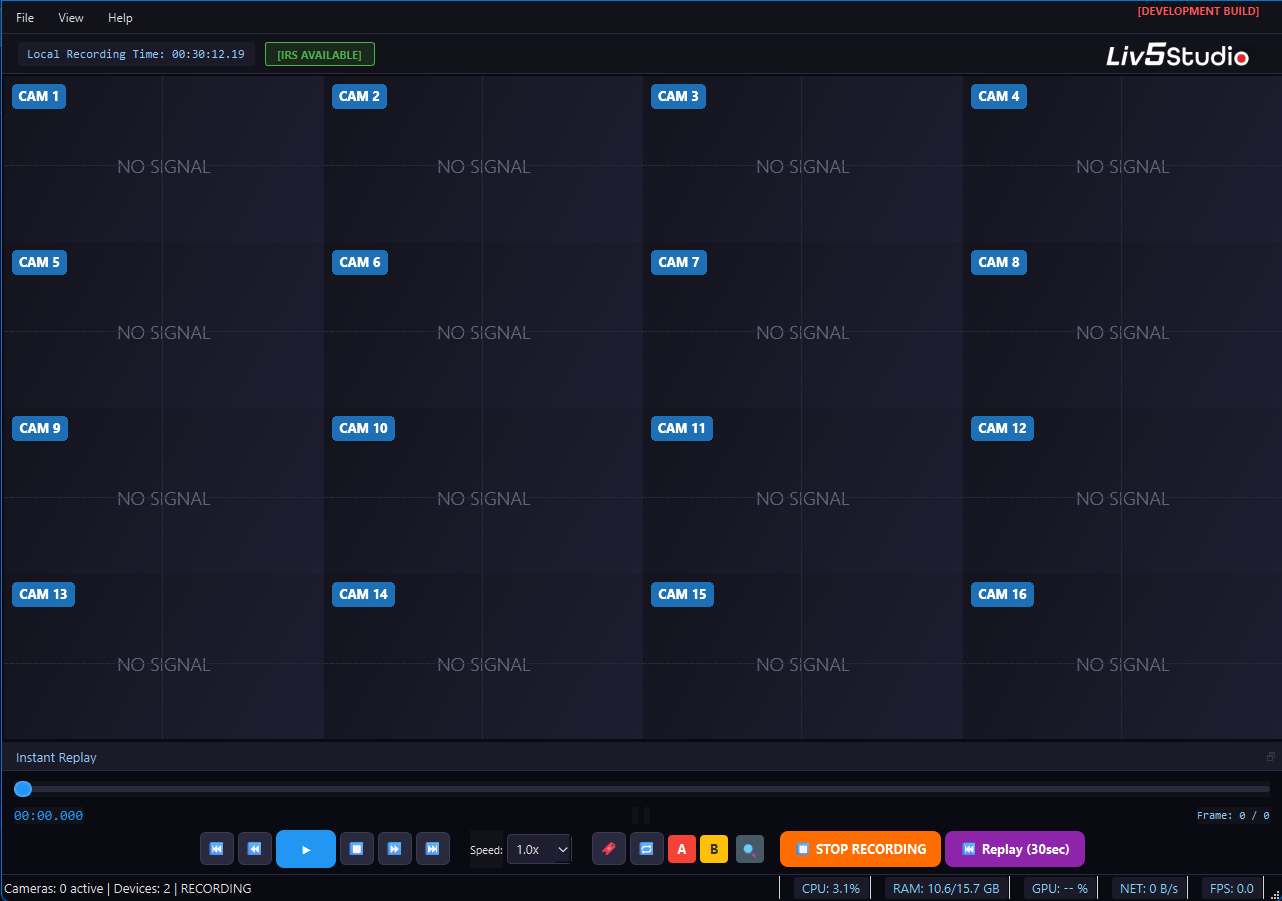
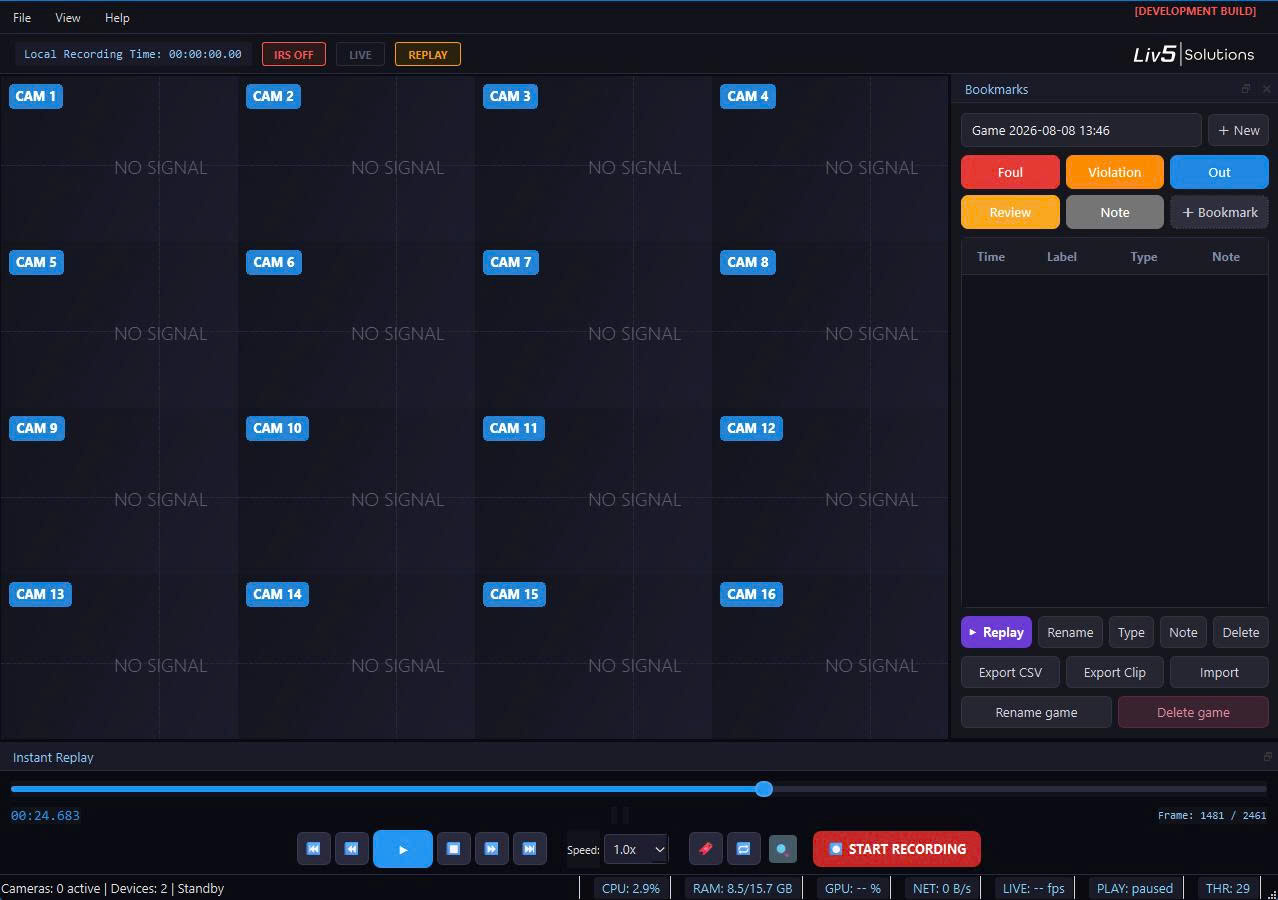
cập nhật page tính năng

diff --git a/tinh-nang.html b/tinh-nang.html
@@ -43,23 +43,19 @@
       <div class="feat reverse">
         <div class="feat-text">
           <div class="feat-num">02</div>
-          <h3 class="feat-title" data-vi="Phát lại tức thì, không gián đoạn trận đấu" data-en="Instant replay, without interrupting the game">Phát lại tức thì, không gián đoạn trận đấu</h3>
-          <p class="feat-desc" data-vi="Hệ thống tiếp tục ghi hình liên tục ở nền trong khi trận đấu vẫn diễn ra, giúp trọng tài tua chậm, xem từng khung hình (frame-by-frame) và đánh dấu tình huống quan trọng để truy xuất nhanh." data-en="The system keeps recording continuously in the background while the game is in progress, letting referees slow down, step through frame-by-frame, and bookmark key moments for quick retrieval.">Hệ thống tiếp tục ghi hình liên tục ở nền trong khi trận đấu vẫn diễn ra, giúp trọng tài tua chậm, xem từng khung hình (frame-by-frame) và đánh dấu tình huống quan trọng để truy xuất nhanh.</p>
+          <h3 class="feat-title" data-vi="Đánh dấu tình huống, phát lại tức thì" data-en="Bookmark plays, replay instantly">Đánh dấu tình huống, phát lại tức thì</h3>
+          <p class="feat-desc" data-vi="Hệ thống tiếp tục ghi hình liên tục ở nền trong khi trận đấu vẫn diễn ra. Trọng tài đánh dấu Foul, Violation, Out, Review chỉ với một cú chạm, sau đó tua chậm, xem từng khung hình (frame-by-frame) để truy xuất nhanh." data-en="The system keeps recording continuously in the background while the game is in progress. Referees tag Fouls, Violations, Outs, and Reviews with a single tap, then slow down and step through frame-by-frame for quick retrieval.">Hệ thống tiếp tục ghi hình liên tục ở nền trong khi trận đấu vẫn diễn ra. Trọng tài đánh dấu Foul, Violation, Out, Review chỉ với một cú chạm, sau đó tua chậm, xem từng khung hình (frame-by-frame) để truy xuất nhanh.</p>
           <ul class="feat-list">
-            <li><svg viewBox="0 0 24 24" fill="none" stroke="currentColor" stroke-width="2.4"><polyline points="20 6 9 17 4 12"/></svg><span data-vi="Tua chậm, xem từng khung hình và phóng to chi tiết" data-en="Slow-motion, frame-by-frame playback and zoom">Tua chậm, xem từng khung hình và phóng to chi tiết</span></li>
-            <li><svg viewBox="0 0 24 24" fill="none" stroke="currentColor" stroke-width="2.4"><polyline points="20 6 9 17 4 12"/></svg><span data-vi="Đánh dấu (bookmark) và xuất clip phát lại để lưu trữ" data-en="Bookmark and export replay clips for record-keeping">Đánh dấu (bookmark) và xuất clip phát lại để lưu trữ</span></li>
+            <li><svg viewBox="0 0 24 24" fill="none" stroke="currentColor" stroke-width="2.4"><polyline points="20 6 9 17 4 12"/></svg><span data-vi="Bookmark theo loại tình huống: Foul, Violation, Out, Review" data-en="Bookmark by play type: Foul, Violation, Out, Review">Bookmark theo loại tình huống: Foul, Violation, Out, Review</span></li>
+            <li><svg viewBox="0 0 24 24" fill="none" stroke="currentColor" stroke-width="2.4"><polyline points="20 6 9 17 4 12"/></svg><span data-vi="Tua chậm, xem từng khung hình và xuất clip để lưu trữ" data-en="Slow-motion, frame-by-frame playback and clip export">Tua chậm, xem từng khung hình và xuất clip để lưu trữ</span></li>
           </ul>
         </div>
-        <div class="feat-visual">
-          <div class="ph">
-            <div class="ph-badge">INSTANT REPLAY · 30s</div>
-            <div class="ph-inner">
-              <div class="ph-icon">
-                <svg viewBox="0 0 24 24" fill="none" stroke="currentColor" stroke-width="1.6"><circle cx="12" cy="12" r="9"/><path d="M12 7v6l4 2"/></svg>
-              </div>
-              <div class="ph-label" data-vi="Hình ảnh minh họa tính năng" data-en="Feature illustration">Hình ảnh minh họa tính năng</div>
-              <div class="ph-sub">700 × 525</div>
-            </div>
+        <div class="feat-visual feat-visual-split">
+          <div class="ph ph-filled ph-contain ph-tall">
+            <img src="assets/bookmarks-panel.png" alt="Bảng Bookmarks Liv5-IRS — đánh dấu Foul, Violation, Out, Review theo mốc thời gian" class="ph-img">
+          </div>
+          <div class="ph ph-filled ph-contain" style="aspect-ratio:1281/101">
+            <img src="assets/replay-controls-bar.png" alt="Thanh điều khiển Instant Replay Liv5-IRS — tua khung hình, tốc độ phát lại, ghi hình" class="ph-img">
           </div>
         </div>
       </div>
@@ -67,23 +63,17 @@
       <div class="feat">
         <div class="feat-text">
           <div class="feat-num">03</div>
-          <h3 class="feat-title" data-vi="Giao diện tối giản, dành riêng cho trọng tài" data-en="A minimal interface, built for referees">Giao diện tối giản, dành riêng cho trọng tài</h3>
-          <p class="feat-desc" data-vi="Bảng điều khiển được thiết kế theo đúng quy trình làm việc của trọng tài, không phải cho sản xuất chương trình truyền hình — giúp thao tác nhanh và giảm áp lực khi xử lý tình huống trong trận đấu." data-en="The control panel is designed around a referee's actual workflow, not broadcast production — enabling fast operation and reducing pressure when handling in-game situations.">Bảng điều khiển được thiết kế theo đúng quy trình làm việc của trọng tài, không phải cho sản xuất chương trình truyền hình — giúp thao tác nhanh và giảm áp lực khi xử lý tình huống trong trận đấu.</p>
+          <h3 class="feat-title" data-vi="Thiết lập nguồn camera linh hoạt" data-en="Flexible camera source setup">Thiết lập nguồn camera linh hoạt</h3>
+          <p class="feat-desc" data-vi="Quản lý và ánh xạ nhiều nguồn camera vào từng cổng nhập với độ phân giải tùy chỉnh, xem trước hình ảnh trực tiếp ngay trong lúc thiết lập — giúp đội kỹ thuật lắp đặt nhanh trước mỗi trận đấu." data-en="Manage and map multiple camera sources to input ports with custom resolutions, with a live preview right in the setup screen — helping the technical team set up quickly before each game.">Quản lý và ánh xạ nhiều nguồn camera vào từng cổng nhập với độ phân giải tùy chỉnh, xem trước hình ảnh trực tiếp ngay trong lúc thiết lập — giúp đội kỹ thuật lắp đặt nhanh trước mỗi trận đấu.</p>
           <ul class="feat-list">
-            <li><svg viewBox="0 0 24 24" fill="none" stroke="currentColor" stroke-width="2.4"><polyline points="20 6 9 17 4 12"/></svg><span data-vi="Trọng tài làm quen hệ thống chỉ sau khoảng 5 phút hướng dẫn" data-en="Referees get comfortable with the system after about 5 minutes of guidance">Trọng tài làm quen hệ thống chỉ sau khoảng 5 phút hướng dẫn</span></li>
-            <li><svg viewBox="0 0 24 24" fill="none" stroke="currentColor" stroke-width="2.4"><polyline points="20 6 9 17 4 12"/></svg><span data-vi="Vận hành ổn định trên nhiều cấu hình máy tính khác nhau" data-en="Runs reliably across a wide range of computer setups">Vận hành ổn định trên nhiều cấu hình máy tính khác nhau</span></li>
+            <li><svg viewBox="0 0 24 24" fill="none" stroke="currentColor" stroke-width="2.4"><polyline points="20 6 9 17 4 12"/></svg><span data-vi="Ánh xạ Camera → Device theo từng cổng, độ phân giải riêng" data-en="Map each Camera → Device by port, with its own resolution">Ánh xạ Camera → Device theo từng cổng, độ phân giải riêng</span></li>
+            <li><svg viewBox="0 0 24 24" fill="none" stroke="currentColor" stroke-width="2.4"><polyline points="20 6 9 17 4 12"/></svg><span data-vi="Xem trước hình ảnh trực tiếp (Live Preview) khi cấu hình" data-en="Live Preview while configuring">Xem trước hình ảnh trực tiếp (Live Preview) khi cấu hình</span></li>
           </ul>
         </div>
         <div class="feat-visual">
-          <div class="ph">
-            <div class="ph-badge">CONTROL PANEL</div>
-            <div class="ph-inner">
-              <div class="ph-icon">
-                <svg viewBox="0 0 24 24" fill="none" stroke="currentColor" stroke-width="1.6"><rect x="3" y="4" width="18" height="14" rx="2"/><path d="M8 20h8M12 18v2"/></svg>
-              </div>
-              <div class="ph-label" data-vi="Hình ảnh minh họa tính năng" data-en="Feature illustration">Hình ảnh minh họa tính năng</div>
-              <div class="ph-sub">700 × 525</div>
-            </div>
+          <div class="ph ph-filled ph-contain" style="aspect-ratio:896/596">
+            <div class="ph-badge">CAMERA SOURCE CONFIGURATION</div>
+            <img src="assets/camera-source-config.png" alt="Màn hình Camera Source Configuration của Liv5-IRS — ánh xạ camera, độ phân giải và xem trước trực tiếp" class="ph-img">
           </div>
         </div>
       </div>
@@ -91,23 +81,17 @@
       <div class="feat reverse">
         <div class="feat-text">
           <div class="feat-num">04</div>
-          <h3 class="feat-title" data-vi="AI hỗ trợ — trọng tài quyết định" data-en="AI assists — the referee decides">AI hỗ trợ — trọng tài quyết định</h3>
-          <p class="feat-desc" data-vi="Các module AI Tracking, AI Image Enhancement và AI Assistant giúp theo dõi cầu thủ, cải thiện chất lượng hình ảnh và tìm nhanh tình huống cần xem lại. AI chỉ đóng vai trò hỗ trợ, không thay thế quyền quyết định của trọng tài — đúng tinh thần Luật bóng rổ FIBA." data-en="The AI Tracking, AI Image Enhancement, and AI Assistant modules help track players, improve image quality, and quickly surface the moment that needs review. AI only assists — it never replaces the referee's authority to decide — true to the spirit of FIBA basketball rules.">Các module AI Tracking, AI Image Enhancement và AI Assistant giúp theo dõi cầu thủ, cải thiện chất lượng hình ảnh và tìm nhanh tình huống cần xem lại. AI chỉ đóng vai trò hỗ trợ, không thay thế quyền quyết định của trọng tài — đúng tinh thần Luật bóng rổ FIBA.</p>
+          <h3 class="feat-title" data-vi="Tối ưu dựng hình theo phần cứng sẵn có" data-en="Rendering tuned to your hardware">Tối ưu dựng hình theo phần cứng sẵn có</h3>
+          <p class="feat-desc" data-vi="Tự động nhận diện GPU và cho phép tinh chỉnh codec, bitrate, preset mã hóa để cân bằng giữa chất lượng hình ảnh và hiệu năng — vận hành ổn định trên nhiều cấu hình máy tính khác nhau, không cần đầu tư phần cứng chuyên dụng." data-en="Automatically detects the GPU and lets referees fine-tune codec, bitrate, and encoding preset to balance image quality against performance — running reliably across a wide range of computer setups without dedicated hardware.">Tự động nhận diện GPU và cho phép tinh chỉnh codec, bitrate, preset mã hóa để cân bằng giữa chất lượng hình ảnh và hiệu năng — vận hành ổn định trên nhiều cấu hình máy tính khác nhau, không cần đầu tư phần cứng chuyên dụng.</p>
           <ul class="feat-list">
-            <li><svg viewBox="0 0 24 24" fill="none" stroke="currentColor" stroke-width="2.4"><polyline points="20 6 9 17 4 12"/></svg><span data-vi="AI Tracking hỗ trợ theo dõi vị trí cầu thủ trong khung hình" data-en="AI Tracking helps follow player positions within the frame">AI Tracking hỗ trợ theo dõi vị trí cầu thủ trong khung hình</span></li>
-            <li><svg viewBox="0 0 24 24" fill="none" stroke="currentColor" stroke-width="2.4"><polyline points="20 6 9 17 4 12"/></svg><span data-vi="AI Image Enhancement cải thiện chất lượng hình ảnh khi tín hiệu quay kém" data-en="AI Image Enhancement improves footage quality when the source signal is poor">AI Image Enhancement cải thiện chất lượng hình ảnh khi tín hiệu quay kém</span></li>
+            <li><svg viewBox="0 0 24 24" fill="none" stroke="currentColor" stroke-width="2.4"><polyline points="20 6 9 17 4 12"/></svg><span data-vi="Tự động nhận diện GPU, hiển thị VRAM và khả năng mã hóa" data-en="Auto-detects GPU, shows VRAM and encoding capability">Tự động nhận diện GPU, hiển thị VRAM và khả năng mã hóa</span></li>
+            <li><svg viewBox="0 0 24 24" fill="none" stroke="currentColor" stroke-width="2.4"><polyline points="20 6 9 17 4 12"/></svg><span data-vi="Tùy chỉnh codec, bitrate, preset — kèm Run Benchmark" data-en="Adjustable codec, bitrate, preset — with Run Benchmark">Tùy chỉnh codec, bitrate, preset — kèm Run Benchmark</span></li>
           </ul>
         </div>
         <div class="feat-visual">
-          <div class="ph">
-            <div class="ph-badge">AI SUPPORTS · REFEREE DECIDES</div>
-            <div class="ph-inner">
-              <div class="ph-icon">
-                <svg viewBox="0 0 24 24" fill="none" stroke="currentColor" stroke-width="1.6"><circle cx="12" cy="12" r="3"/><path d="M12 1v6M12 17v6M4.2 4.2l4.2 4.2M15.5 15.5l4.2 4.2M1 12h6M17 12h6M4.2 19.8l4.2-4.2M15.5 8.5l4.2-4.2"/></svg>
-              </div>
-              <div class="ph-label" data-vi="Hình ảnh minh họa tính năng" data-en="Feature illustration">Hình ảnh minh họa tính năng</div>
-              <div class="ph-sub">700 × 525</div>
-            </div>
+          <div class="ph ph-filled ph-contain" style="aspect-ratio:796/714">
+            <div class="ph-badge">GPU RENDERING & ENCODING</div>
+            <img src="assets/gpu-encoding-settings.png" alt="Màn hình GPU Rendering & Encoding Settings của Liv5-IRS — chọn GPU, codec, bitrate, preset mã hóa" class="ph-img">
           </div>
         </div>
       </div>

diff --git a/css/styles.css b/css/styles.css
@@ -400,6 +400,19 @@
   }
   .feat-list li svg{ width:16px; height:16px; color:var(--primary); flex-shrink:0; }
   .feat-visual .ph{ aspect-ratio:4/3; }
+  .feat-visual-split{
+    display:flex;
+    flex-direction:column;
+    gap:var(--space-2);
+  }
+  .feat-visual-split > .ph{ width:100%; }
+  .feat-visual-split .ph-tall{
+    height:420px;
+  }
+  .feat-visual-split .ph-tall .ph-img{ width:auto; max-width:100%; height:100%; margin:0 auto; }
+  @media (max-width:860px){
+    .feat-visual-split .ph-tall{ height:340px; }
+  }
 
   /* ============ SEGMENTS ============ */
   .segments{ padding:var(--space-7) 0; border-top:1px solid var(--border); }
